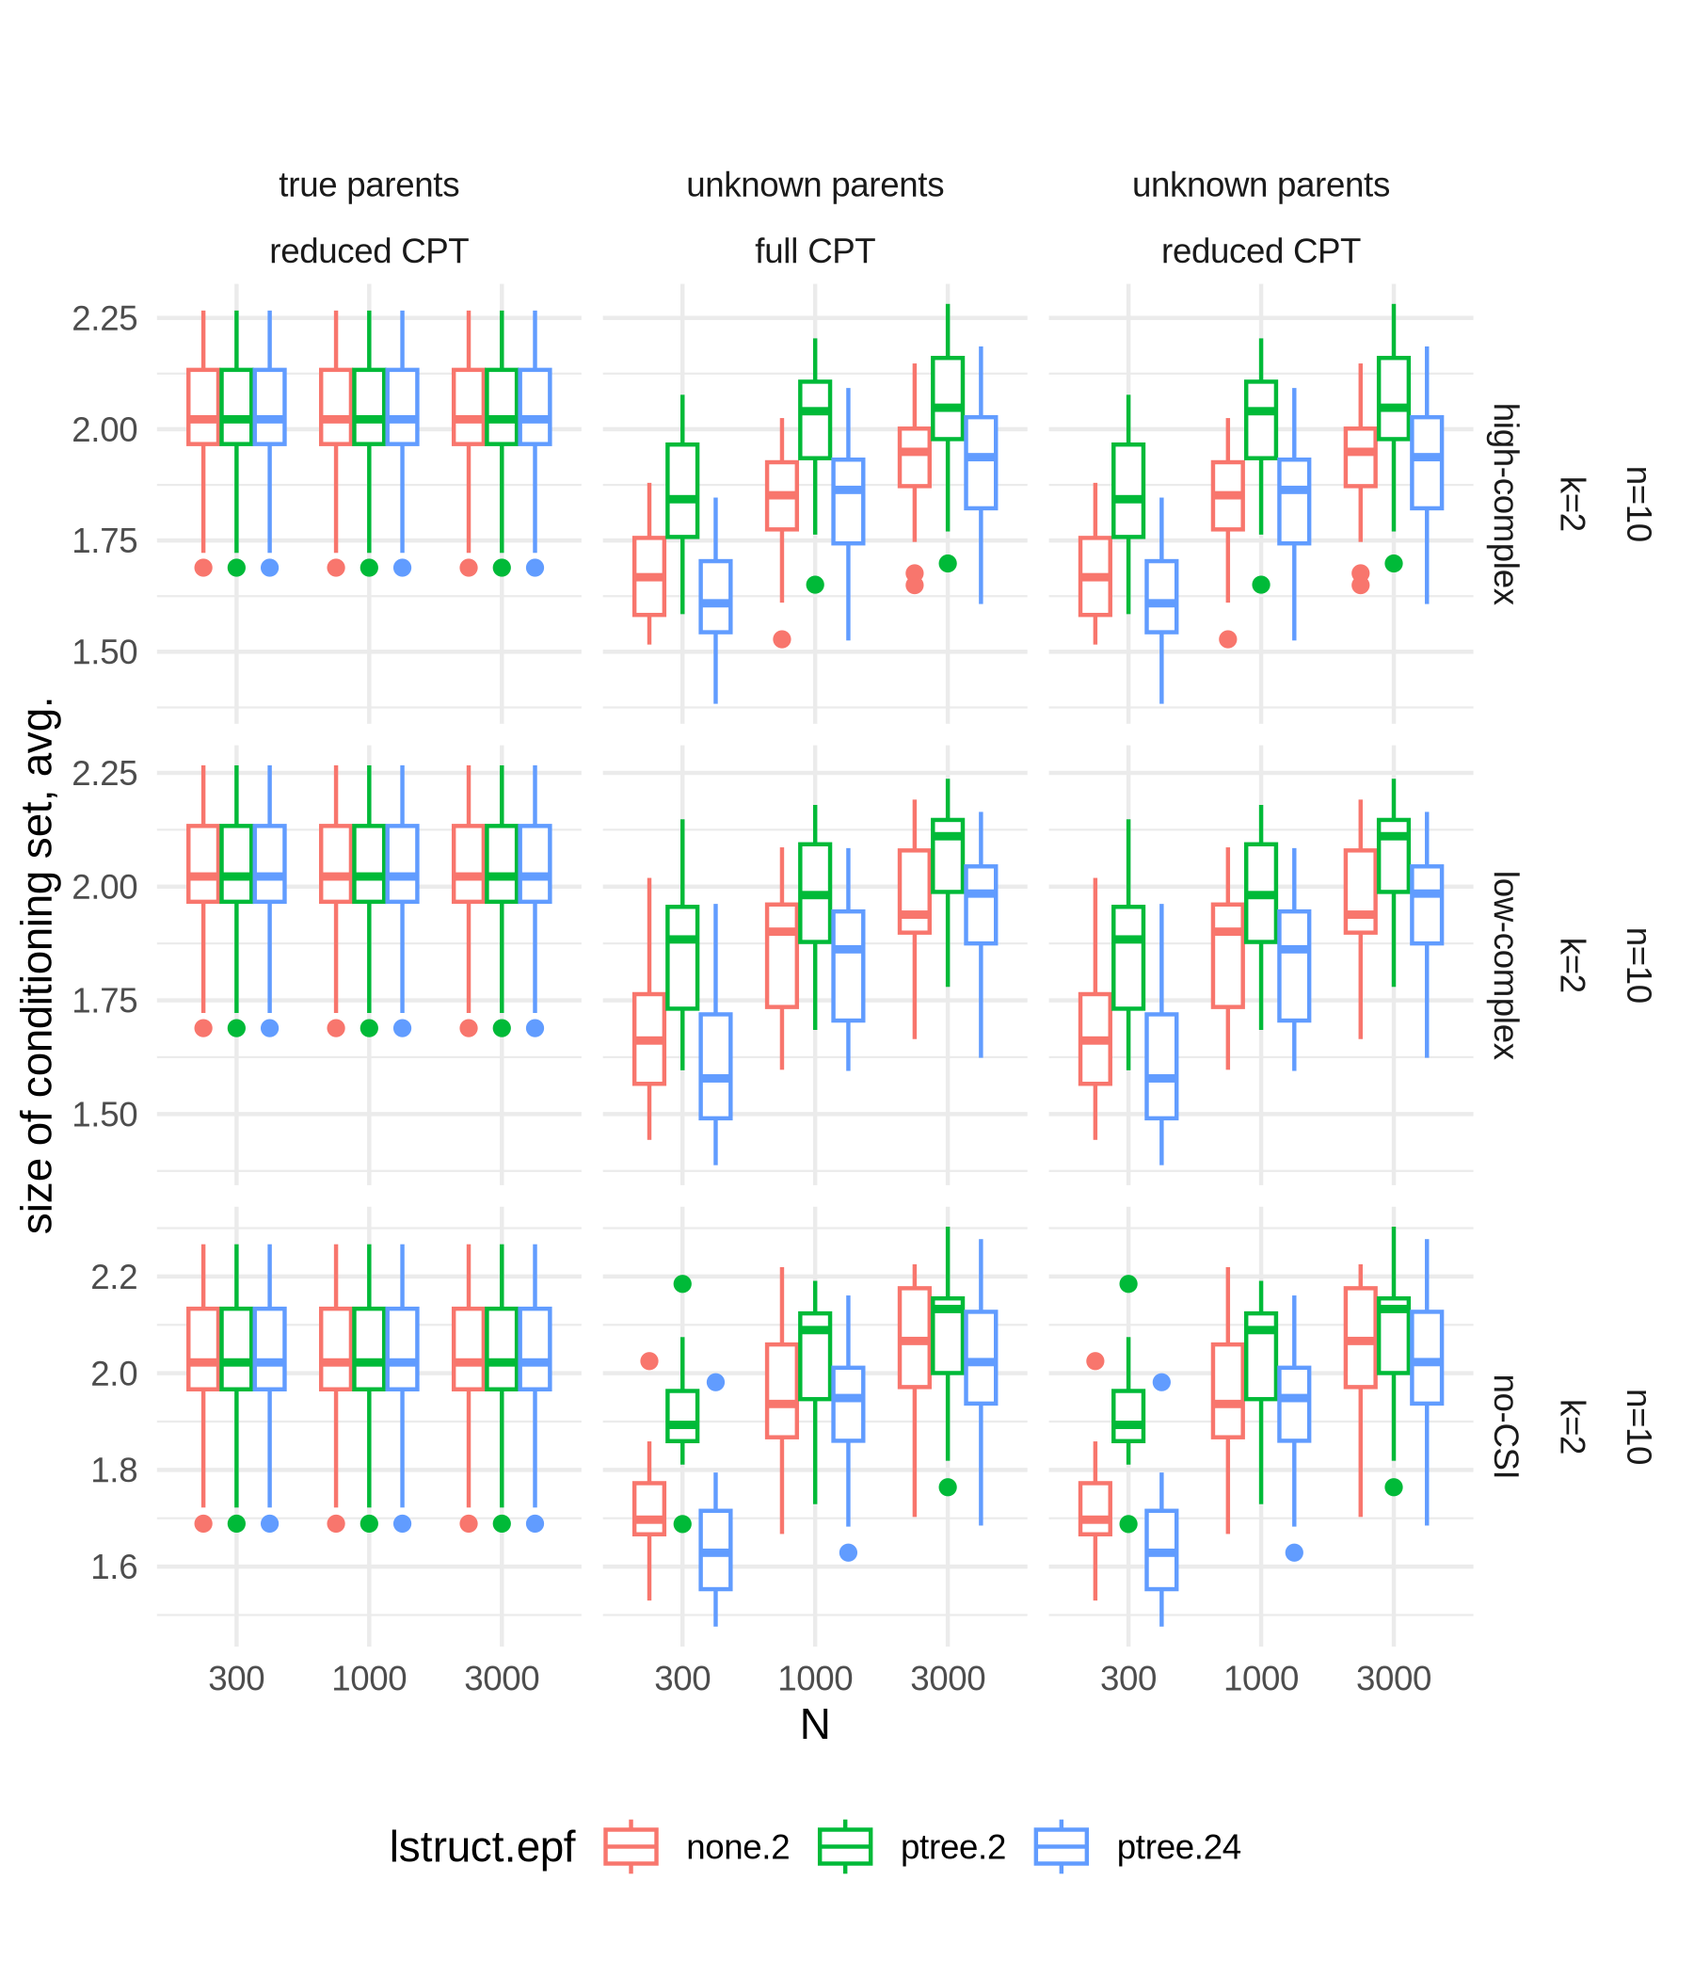
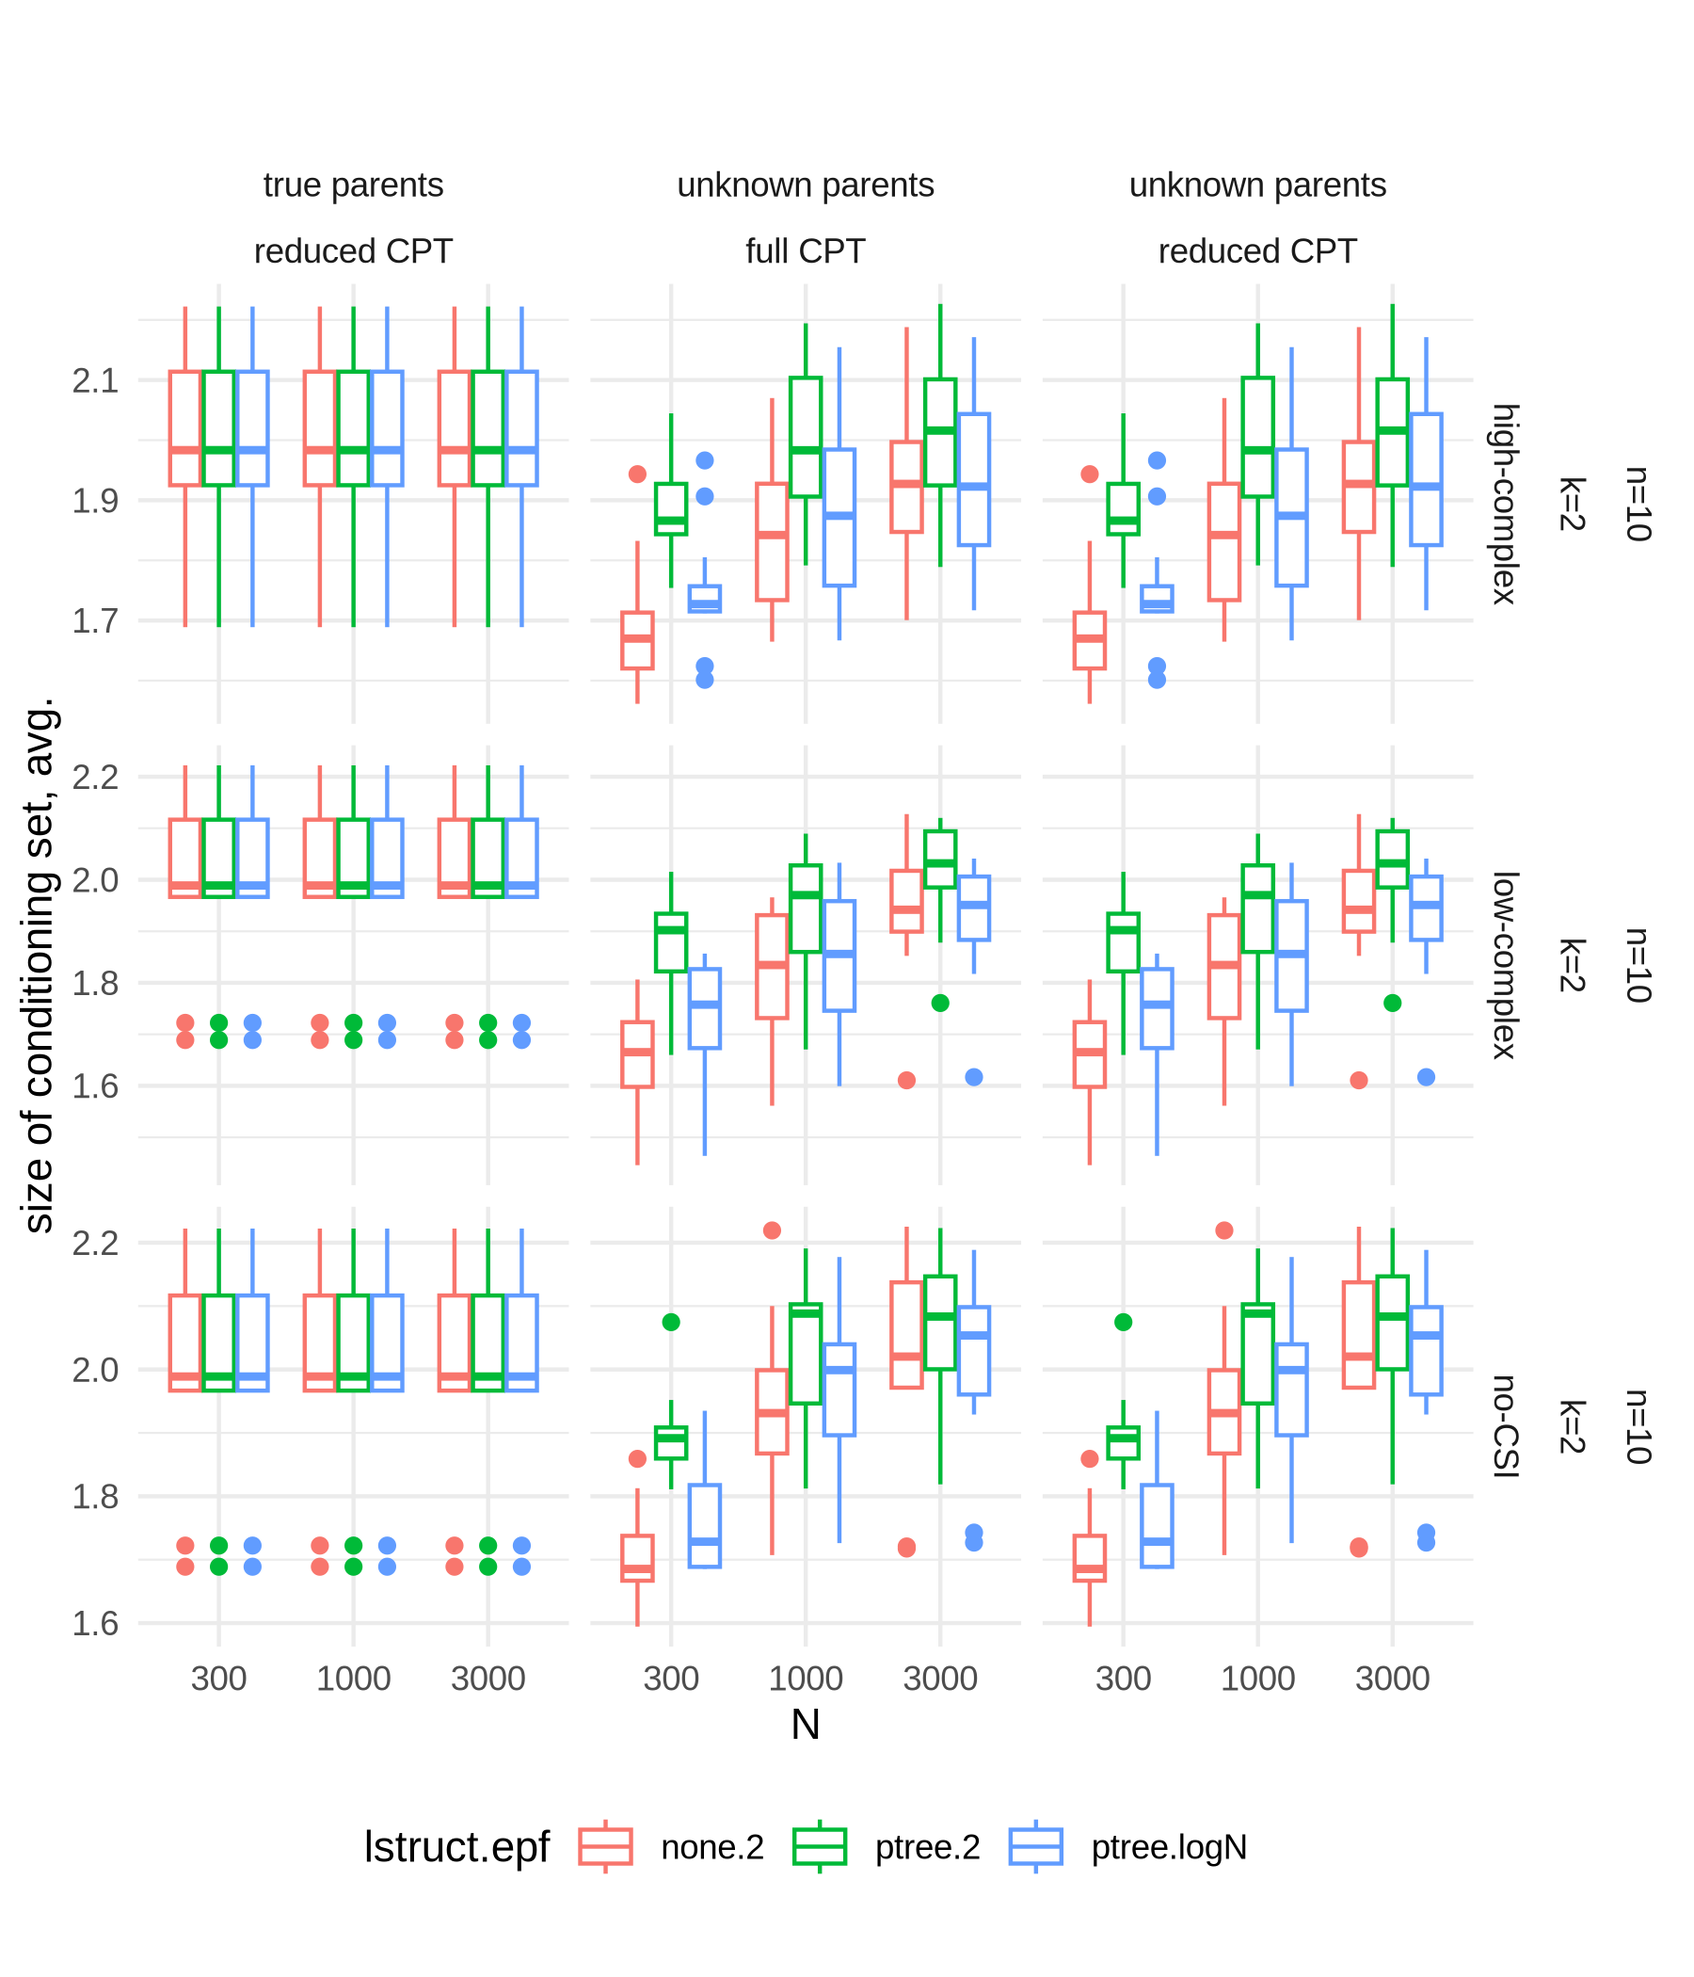
upd simulations with new DGP: add non-split variables to separate branches

diff --git a/inst/simulations/plots/tab_cpt_size_k4_parts.tex b/inst/simulations/plots/tab_cpt_size_k4_parts.tex
@@ -1,49 +1,49 @@
 % latex table generated in R 4.2.1 by xtable 1.8-4 package
-% Fri Sep 27 10:04:02 2024
+% Mon Sep 30 23:49:33 2024
 \begin{table}[ht]
 \centering
 \caption{Local distribution P(Y|X, Z). Size of conditioning set and number of rows. Averaged over all DAGs and nodes.} 
 \begin{tabular}{rrrrrrr|cc|cc|cc}
   \toprule
-   & & & & & & &\multicolumn{2}{c}{none.2}&\multicolumn{2}{c}{ptree.2}&\multicolumn{2}{c}{ptree.24}   \\ 
+   & & & & & & &\multicolumn{2}{c}{none.2}&\multicolumn{2}{c}{ptree.2}&\multicolumn{2}{c}{ptree.logN}   \\ 
  \cline{8-13}  \\ 
  hardlimit & n & k & csi & slearn & name & N & parts & vars & parts & vars & parts & vars  \\ 
  \midrule
-n=10 & k=4 & high-complex & true parents & reduced CPT & 4.00 & 300 & 329.99 & 2.02 & 32.28 & 2.02 & 32.28 & 2.02 \\ 
-  n=10 & k=4 & high-complex & true parents & reduced CPT & 4.00 & 1000 & 329.99 & 2.02 & 15.36 & 2.02 & 15.36 & 2.02 \\ 
-  n=10 & k=4 & high-complex & true parents & reduced CPT & 4.00 & 3000 & 329.99 & 2.02 & 10.80 & 2.02 & 10.80 & 2.02 \\ 
+n=10 & k=4 & high-complex & true parents & reduced CPT & 4.00 & 300 & 337.35 & 1.98 & 28.88 & 1.98 & 26.70 & 1.99 \\ 
+  n=10 & k=4 & high-complex & true parents & reduced CPT & 4.00 & 1000 & 300.40 & 1.99 & 11.99 & 1.99 & 11.99 & 1.99 \\ 
+  n=10 & k=4 & high-complex & true parents & reduced CPT & 4.00 & 3000 & 300.40 & 1.99 & 6.51 & 1.99 & 6.51 & 1.99 \\ 
    \\ 
-n=10 & k=4 & high-complex & unknown parents & full CPT & 4.00 & 300 & 10.79 & 1.51 & 222.35 & 1.85 & 68.18 & 1.65 \\ 
-  n=10 & k=4 & high-complex & unknown parents & full CPT & 4.00 & 1000 & 13.19 & 1.63 & 233.43 & 2.04 & 120.98 & 1.91 \\ 
-  n=10 & k=4 & high-complex & unknown parents & full CPT & 4.00 & 3000 & 20.17 & 1.75 & 252.89 & 2.08 & 175.33 & 1.99 \\ 
+n=10 & k=4 & high-complex & unknown parents & full CPT & 4.00 & 300 & 9.30 & 1.40 & 170.94 & 1.68 & 129.76 & 1.62 \\ 
+  n=10 & k=4 & high-complex & unknown parents & full CPT & 4.00 & 1000 & 13.28 & 1.62 & 312.63 & 2.06 & 258.62 & 1.99 \\ 
+  n=10 & k=4 & high-complex & unknown parents & full CPT & 4.00 & 3000 & 22.81 & 1.78 & 372.21 & 2.11 & 290.92 & 2.06 \\ 
    \\ 
-n=10 & k=4 & high-complex & unknown parents & reduced CPT & 4.00 & 300 & 10.79 & 1.51 & 24.91 & 1.85 & 7.36 & 1.65 \\ 
-  n=10 & k=4 & high-complex & unknown parents & reduced CPT & 4.00 & 1000 & 13.19 & 1.63 & 11.29 & 2.04 & 6.13 & 1.91 \\ 
-  n=10 & k=4 & high-complex & unknown parents & reduced CPT & 4.00 & 3000 & 20.17 & 1.75 & 7.20 & 2.08 & 5.98 & 1.99 \\ 
+n=10 & k=4 & high-complex & unknown parents & reduced CPT & 4.00 & 300 & 9.30 & 1.40 & 26.22 & 1.68 & 19.66 & 1.62 \\ 
+  n=10 & k=4 & high-complex & unknown parents & reduced CPT & 4.00 & 1000 & 13.28 & 1.62 & 15.59 & 2.06 & 13.22 & 1.99 \\ 
+  n=10 & k=4 & high-complex & unknown parents & reduced CPT & 4.00 & 3000 & 22.81 & 1.78 & 8.55 & 2.11 & 6.33 & 2.06 \\ 
    \\ 
-n=10 & k=4 & low-complex & true parents & reduced CPT & 4.00 & 300 & 329.99 & 2.02 & 33.58 & 2.02 & 33.58 & 2.02 \\ 
-  n=10 & k=4 & low-complex & true parents & reduced CPT & 4.00 & 1000 & 329.99 & 2.02 & 16.23 & 2.02 & 16.23 & 2.02 \\ 
-  n=10 & k=4 & low-complex & true parents & reduced CPT & 4.00 & 3000 & 329.99 & 2.02 & 9.97 & 2.02 & 9.97 & 2.02 \\ 
+n=10 & k=4 & low-complex & true parents & reduced CPT & 4.00 & 300 & 300.40 & 1.99 & 32.12 & 1.99 & 32.12 & 1.99 \\ 
+  n=10 & k=4 & low-complex & true parents & reduced CPT & 4.00 & 1000 & 300.40 & 1.99 & 15.49 & 1.99 & 15.49 & 1.99 \\ 
+  n=10 & k=4 & low-complex & true parents & reduced CPT & 4.00 & 3000 & 300.40 & 1.99 & 11.27 & 1.99 & 11.27 & 1.99 \\ 
    \\ 
-n=10 & k=4 & low-complex & unknown parents & full CPT & 4.00 & 300 & 9.02 & 1.38 & 232.50 & 1.62 & 103.10 & 1.49 \\ 
-  n=10 & k=4 & low-complex & unknown parents & full CPT & 4.00 & 1000 & 15.74 & 1.63 & 393.48 & 1.98 & 251.12 & 1.88 \\ 
-  n=10 & k=4 & low-complex & unknown parents & full CPT & 4.00 & 3000 & 26.55 & 1.85 & 433.12 & 2.15 & 328.59 & 2.08 \\ 
+n=10 & k=4 & low-complex & unknown parents & full CPT & 4.00 & 300 & 9.18 & 1.38 & 245.97 & 1.62 & 186.73 & 1.55 \\ 
+  n=10 & k=4 & low-complex & unknown parents & full CPT & 4.00 & 1000 & 16.55 & 1.64 & 337.30 & 1.96 & 275.44 & 1.89 \\ 
+  n=10 & k=4 & low-complex & unknown parents & full CPT & 4.00 & 3000 & 25.48 & 1.83 & 380.24 & 2.11 & 318.21 & 2.06 \\ 
    \\ 
-n=10 & k=4 & low-complex & unknown parents & reduced CPT & 4.00 & 300 & 9.02 & 1.38 & 37.36 & 1.62 & 18.66 & 1.49 \\ 
-  n=10 & k=4 & low-complex & unknown parents & reduced CPT & 4.00 & 1000 & 15.74 & 1.63 & 30.68 & 1.98 & 16.83 & 1.88 \\ 
-  n=10 & k=4 & low-complex & unknown parents & reduced CPT & 4.00 & 3000 & 26.55 & 1.85 & 12.90 & 2.15 & 10.38 & 2.08 \\ 
+n=10 & k=4 & low-complex & unknown parents & reduced CPT & 4.00 & 300 & 9.18 & 1.38 & 39.39 & 1.62 & 29.11 & 1.55 \\ 
+  n=10 & k=4 & low-complex & unknown parents & reduced CPT & 4.00 & 1000 & 16.55 & 1.64 & 23.43 & 1.96 & 18.28 & 1.89 \\ 
+  n=10 & k=4 & low-complex & unknown parents & reduced CPT & 4.00 & 3000 & 25.48 & 1.83 & 14.48 & 2.11 & 12.89 & 2.06 \\ 
    \\ 
-n=10 & k=4 & no-CSI & true parents & reduced CPT & 4.00 & 300 & 329.99 & 2.02 & 38.20 & 2.02 & 38.20 & 2.02 \\ 
-  n=10 & k=4 & no-CSI & true parents & reduced CPT & 4.00 & 1000 & 329.99 & 2.02 & 20.37 & 2.02 & 20.37 & 2.02 \\ 
-  n=10 & k=4 & no-CSI & true parents & reduced CPT & 4.00 & 3000 & 329.99 & 2.02 & 14.29 & 2.02 & 14.29 & 2.02 \\ 
+n=10 & k=4 & no-CSI & true parents & reduced CPT & 4.00 & 300 & 300.40 & 1.99 & 35.85 & 1.99 & 35.85 & 1.99 \\ 
+  n=10 & k=4 & no-CSI & true parents & reduced CPT & 4.00 & 1000 & 300.40 & 1.99 & 20.02 & 1.99 & 20.02 & 1.99 \\ 
+  n=10 & k=4 & no-CSI & true parents & reduced CPT & 4.00 & 3000 & 300.40 & 1.99 & 10.57 & 1.99 & 10.57 & 1.99 \\ 
    \\ 
-n=10 & k=4 & no-CSI & unknown parents & full CPT & 4.00 & 300 & 7.40 & 1.24 & 135.93 & 1.41 & 59.15 & 1.32 \\ 
-  n=10 & k=4 & no-CSI & unknown parents & full CPT & 4.00 & 1000 & 13.39 & 1.47 & 245.85 & 1.69 & 118.12 & 1.57 \\ 
-  n=10 & k=4 & no-CSI & unknown parents & full CPT & 4.00 & 3000 & 25.97 & 1.69 & 366.88 & 1.93 & 291.49 & 1.83 \\ 
+n=10 & k=4 & no-CSI & unknown parents & full CPT & 4.00 & 300 & 7.27 & 1.24 & 106.75 & 1.38 & 89.63 & 1.35 \\ 
+  n=10 & k=4 & no-CSI & unknown parents & full CPT & 4.00 & 1000 & 13.22 & 1.45 & 178.06 & 1.66 & 125.53 & 1.60 \\ 
+  n=10 & k=4 & no-CSI & unknown parents & full CPT & 4.00 & 3000 & 23.34 & 1.66 & 306.66 & 1.89 & 266.96 & 1.82 \\ 
    \\ 
-n=10 & k=4 & no-CSI & unknown parents & reduced CPT & 4.00 & 300 & 7.40 & 1.24 & 18.56 & 1.41 & 7.63 & 1.32 \\ 
-  n=10 & k=4 & no-CSI & unknown parents & reduced CPT & 4.00 & 1000 & 13.39 & 1.47 & 24.35 & 1.69 & 12.48 & 1.57 \\ 
-  n=10 & k=4 & no-CSI & unknown parents & reduced CPT & 4.00 & 3000 & 25.97 & 1.69 & 19.59 & 1.93 & 14.68 & 1.83 \\ 
+n=10 & k=4 & no-CSI & unknown parents & reduced CPT & 4.00 & 300 & 7.27 & 1.24 & 14.18 & 1.38 & 12.40 & 1.35 \\ 
+  n=10 & k=4 & no-CSI & unknown parents & reduced CPT & 4.00 & 1000 & 13.22 & 1.45 & 17.29 & 1.66 & 12.53 & 1.60 \\ 
+  n=10 & k=4 & no-CSI & unknown parents & reduced CPT & 4.00 & 3000 & 23.34 & 1.66 & 13.23 & 1.89 & 12.12 & 1.82 \\ 
    \bottomrule 
  \multicolumn{13}{l}{\scriptsize } 
  \end{tabular}

diff --git a/inst/simulations/plots/tab_cpt_size_k2_parts.tex b/inst/simulations/plots/tab_cpt_size_k2_parts.tex
@@ -1,49 +1,49 @@
 % latex table generated in R 4.2.1 by xtable 1.8-4 package
-% Fri Sep 27 10:03:52 2024
+% Mon Sep 30 23:49:17 2024
 \begin{table}[ht]
 \centering
 \caption{Local distribution P(Y|X, Z). Size of conditioning set and number of rows. Averaged over all DAGs and nodes.} 
 \begin{tabular}{rrrrrrr|cc|cc|cc}
   \toprule
-   & & & & & & &\multicolumn{2}{c}{none.2}&\multicolumn{2}{c}{ptree.2}&\multicolumn{2}{c}{ptree.24}   \\ 
+   & & & & & & &\multicolumn{2}{c}{none.2}&\multicolumn{2}{c}{ptree.2}&\multicolumn{2}{c}{ptree.logN}   \\ 
  \cline{8-13}  \\ 
  hardlimit & n & k & csi & slearn & name & N & parts & vars & parts & vars & parts & vars  \\ 
  \midrule
-n=10 & k=2 & high-complex & true parents & reduced CPT & 4.00 & 300 & 8.96 & 2.02 & 1.88 & 2.02 & 1.88 & 2.02 \\ 
-  n=10 & k=2 & high-complex & true parents & reduced CPT & 4.00 & 1000 & 8.96 & 2.02 & 1.97 & 2.02 & 1.97 & 2.02 \\ 
-  n=10 & k=2 & high-complex & true parents & reduced CPT & 4.00 & 3000 & 8.96 & 2.02 & 2.14 & 2.02 & 2.14 & 2.02 \\ 
+n=10 & k=2 & high-complex & true parents & reduced CPT & 4.00 & 300 & 8.71 & 1.98 & 1.92 & 1.98 & 1.92 & 1.98 \\ 
+  n=10 & k=2 & high-complex & true parents & reduced CPT & 4.00 & 1000 & 8.71 & 1.98 & 1.93 & 1.98 & 1.93 & 1.98 \\ 
+  n=10 & k=2 & high-complex & true parents & reduced CPT & 4.00 & 3000 & 8.71 & 1.98 & 2.06 & 1.98 & 2.06 & 1.98 \\ 
    \\ 
-n=10 & k=2 & high-complex & unknown parents & full CPT & 4.00 & 300 & 3.99 & 1.67 & 6.85 & 1.86 & 4.56 & 1.61 \\ 
-  n=10 & k=2 & high-complex & unknown parents & full CPT & 4.00 & 1000 & 4.82 & 1.83 & 7.90 & 2.00 & 5.63 & 1.82 \\ 
-  n=10 & k=2 & high-complex & unknown parents & full CPT & 4.00 & 3000 & 5.53 & 1.93 & 8.75 & 2.04 & 6.90 & 1.92 \\ 
+n=10 & k=2 & high-complex & unknown parents & full CPT & 4.00 & 300 & 4.13 & 1.69 & 6.88 & 1.88 & 5.64 & 1.75 \\ 
+  n=10 & k=2 & high-complex & unknown parents & full CPT & 4.00 & 1000 & 4.93 & 1.85 & 8.02 & 2.01 & 6.82 & 1.89 \\ 
+  n=10 & k=2 & high-complex & unknown parents & full CPT & 4.00 & 3000 & 5.69 & 1.93 & 9.05 & 2.01 & 8.02 & 1.94 \\ 
    \\ 
-n=10 & k=2 & high-complex & unknown parents & reduced CPT & 4.00 & 300 & 3.99 & 1.67 & 1.82 & 1.86 & 1.77 & 1.61 \\ 
-  n=10 & k=2 & high-complex & unknown parents & reduced CPT & 4.00 & 1000 & 4.82 & 1.83 & 1.95 & 2.00 & 1.87 & 1.82 \\ 
-  n=10 & k=2 & high-complex & unknown parents & reduced CPT & 4.00 & 3000 & 5.53 & 1.93 & 2.12 & 2.04 & 2.03 & 1.92 \\ 
+n=10 & k=2 & high-complex & unknown parents & reduced CPT & 4.00 & 300 & 4.13 & 1.69 & 1.81 & 1.88 & 1.79 & 1.75 \\ 
+  n=10 & k=2 & high-complex & unknown parents & reduced CPT & 4.00 & 1000 & 4.93 & 1.85 & 1.96 & 2.01 & 1.91 & 1.89 \\ 
+  n=10 & k=2 & high-complex & unknown parents & reduced CPT & 4.00 & 3000 & 5.69 & 1.93 & 2.13 & 2.01 & 2.08 & 1.94 \\ 
    \\ 
-n=10 & k=2 & low-complex & true parents & reduced CPT & 4.00 & 300 & 8.96 & 2.02 & 1.85 & 2.02 & 1.85 & 2.02 \\ 
-  n=10 & k=2 & low-complex & true parents & reduced CPT & 4.00 & 1000 & 8.96 & 2.02 & 1.98 & 2.02 & 1.98 & 2.02 \\ 
-  n=10 & k=2 & low-complex & true parents & reduced CPT & 4.00 & 3000 & 8.96 & 2.02 & 2.15 & 2.02 & 2.15 & 2.02 \\ 
+n=10 & k=2 & low-complex & true parents & reduced CPT & 4.00 & 300 & 8.58 & 1.99 & 1.79 & 1.99 & 1.79 & 1.99 \\ 
+  n=10 & k=2 & low-complex & true parents & reduced CPT & 4.00 & 1000 & 8.58 & 1.99 & 1.89 & 1.99 & 1.89 & 1.99 \\ 
+  n=10 & k=2 & low-complex & true parents & reduced CPT & 4.00 & 3000 & 8.58 & 1.99 & 2.02 & 1.99 & 2.02 & 1.99 \\ 
    \\ 
-n=10 & k=2 & low-complex & unknown parents & full CPT & 4.00 & 300 & 3.99 & 1.68 & 6.77 & 1.87 & 4.34 & 1.61 \\ 
-  n=10 & k=2 & low-complex & unknown parents & full CPT & 4.00 & 1000 & 4.94 & 1.86 & 7.92 & 1.96 & 6.24 & 1.83 \\ 
-  n=10 & k=2 & low-complex & unknown parents & full CPT & 4.00 & 3000 & 5.74 & 1.96 & 9.21 & 2.06 & 7.41 & 1.94 \\ 
+n=10 & k=2 & low-complex & unknown parents & full CPT & 4.00 & 300 & 3.92 & 1.65 & 7.12 & 1.87 & 5.44 & 1.72 \\ 
+  n=10 & k=2 & low-complex & unknown parents & full CPT & 4.00 & 1000 & 4.75 & 1.81 & 8.23 & 1.94 & 6.92 & 1.84 \\ 
+  n=10 & k=2 & low-complex & unknown parents & full CPT & 4.00 & 3000 & 5.76 & 1.94 & 8.86 & 2.01 & 7.59 & 1.92 \\ 
    \\ 
-n=10 & k=2 & low-complex & unknown parents & reduced CPT & 4.00 & 300 & 3.99 & 1.68 & 1.81 & 1.87 & 1.75 & 1.61 \\ 
-  n=10 & k=2 & low-complex & unknown parents & reduced CPT & 4.00 & 1000 & 4.94 & 1.86 & 1.95 & 1.96 & 1.88 & 1.83 \\ 
-  n=10 & k=2 & low-complex & unknown parents & reduced CPT & 4.00 & 3000 & 5.74 & 1.96 & 2.17 & 2.06 & 2.07 & 1.94 \\ 
+n=10 & k=2 & low-complex & unknown parents & reduced CPT & 4.00 & 300 & 3.92 & 1.65 & 1.83 & 1.87 & 1.78 & 1.72 \\ 
+  n=10 & k=2 & low-complex & unknown parents & reduced CPT & 4.00 & 1000 & 4.75 & 1.81 & 1.93 & 1.94 & 1.88 & 1.84 \\ 
+  n=10 & k=2 & low-complex & unknown parents & reduced CPT & 4.00 & 3000 & 5.76 & 1.94 & 2.08 & 2.01 & 2.00 & 1.92 \\ 
    \\ 
-n=10 & k=2 & no-CSI & true parents & reduced CPT & 4.00 & 300 & 8.96 & 2.02 & 2.00 & 2.02 & 2.00 & 2.02 \\ 
-  n=10 & k=2 & no-CSI & true parents & reduced CPT & 4.00 & 1000 & 8.96 & 2.02 & 2.25 & 2.02 & 2.25 & 2.02 \\ 
-  n=10 & k=2 & no-CSI & true parents & reduced CPT & 4.00 & 3000 & 8.96 & 2.02 & 2.48 & 2.02 & 2.48 & 2.02 \\ 
+n=10 & k=2 & no-CSI & true parents & reduced CPT & 4.00 & 300 & 8.58 & 1.99 & 1.98 & 1.99 & 1.98 & 1.99 \\ 
+  n=10 & k=2 & no-CSI & true parents & reduced CPT & 4.00 & 1000 & 8.58 & 1.99 & 2.22 & 1.99 & 2.22 & 1.99 \\ 
+  n=10 & k=2 & no-CSI & true parents & reduced CPT & 4.00 & 3000 & 8.58 & 1.99 & 2.41 & 1.99 & 2.41 & 1.99 \\ 
    \\ 
-n=10 & k=2 & no-CSI & unknown parents & full CPT & 4.00 & 300 & 4.48 & 1.72 & 8.73 & 1.92 & 5.26 & 1.65 \\ 
-  n=10 & k=2 & no-CSI & unknown parents & full CPT & 4.00 & 1000 & 6.63 & 1.95 & 10.59 & 2.03 & 8.39 & 1.92 \\ 
-  n=10 & k=2 & no-CSI & unknown parents & full CPT & 4.00 & 3000 & 8.45 & 2.02 & 10.93 & 2.07 & 9.52 & 2.00 \\ 
+n=10 & k=2 & no-CSI & unknown parents & full CPT & 4.00 & 300 & 4.40 & 1.70 & 8.56 & 1.90 & 7.03 & 1.77 \\ 
+  n=10 & k=2 & no-CSI & unknown parents & full CPT & 4.00 & 1000 & 6.46 & 1.94 & 10.37 & 2.02 & 8.93 & 1.96 \\ 
+  n=10 & k=2 & no-CSI & unknown parents & full CPT & 4.00 & 3000 & 8.19 & 2.02 & 10.64 & 2.06 & 9.54 & 2.01 \\ 
    \\ 
-n=10 & k=2 & no-CSI & unknown parents & reduced CPT & 4.00 & 300 & 4.48 & 1.72 & 2.08 & 1.92 & 1.89 & 1.65 \\ 
-  n=10 & k=2 & no-CSI & unknown parents & reduced CPT & 4.00 & 1000 & 6.63 & 1.95 & 2.43 & 2.03 & 2.27 & 1.92 \\ 
-  n=10 & k=2 & no-CSI & unknown parents & reduced CPT & 4.00 & 3000 & 8.45 & 2.02 & 2.78 & 2.07 & 2.64 & 2.00 \\ 
+n=10 & k=2 & no-CSI & unknown parents & reduced CPT & 4.00 & 300 & 4.40 & 1.70 & 2.07 & 1.90 & 1.98 & 1.77 \\ 
+  n=10 & k=2 & no-CSI & unknown parents & reduced CPT & 4.00 & 1000 & 6.46 & 1.94 & 2.38 & 2.02 & 2.28 & 1.96 \\ 
+  n=10 & k=2 & no-CSI & unknown parents & reduced CPT & 4.00 & 3000 & 8.19 & 2.02 & 2.71 & 2.06 & 2.60 & 2.01 \\ 
    \bottomrule 
  \multicolumn{13}{l}{\scriptsize } 
  \end{tabular}
